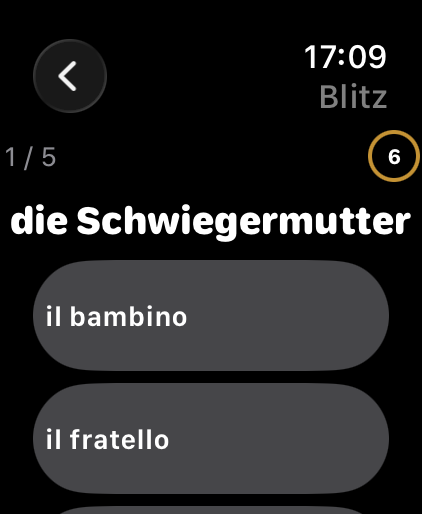
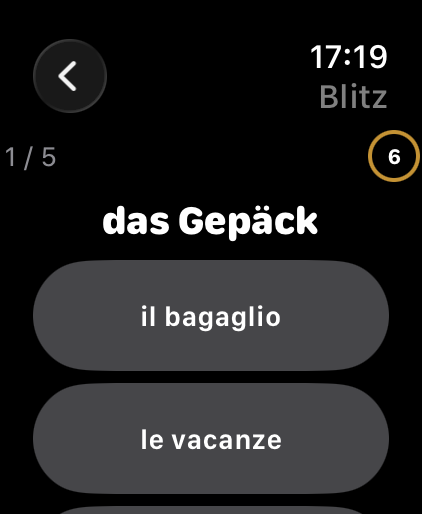
Centre the answer labels in the blitz round

diff --git a/watch/ImparaWatch/Views/BlitzView.swift b/watch/ImparaWatch/Views/BlitzView.swift
@@ -66,7 +66,7 @@ struct BlitzView: View {
                             .font(.footnote.weight(.semibold))
                             .lineLimit(1)
                             .minimumScaleFactor(0.7)
-                            .frame(maxWidth: .infinity, alignment: .leading)
+                            .frame(maxWidth: .infinity, alignment: .center)
                     }
                     .buttonStyle(.bordered)
                     .tint(tint(for: option))
